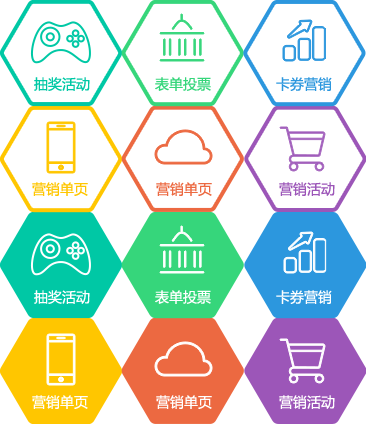
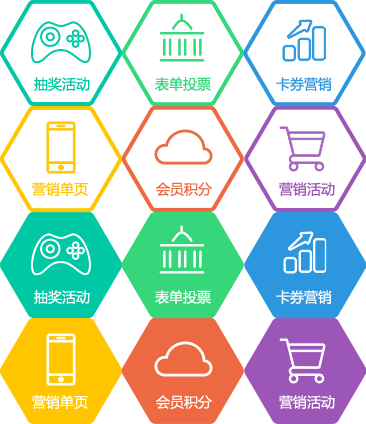
update danlunet

Changed region(s): [[0.4208, 0.9198, 0.571, 0.9811], [0.4208, 0.4292, 0.6011, 0.4599]]

diff --git a/src/documents/index.html b/src/documents/index.html
@@ -35,8 +35,7 @@ scripts: ["/scripts/jq-plug.js","/scripts/index.js"]
     <div class="solution-info" id="solution-info">
             <ul class="solu-nav">
                 <li class="title">营销模块</li>
-                <li class="tit" style="display:none;"></li>
-                <li class="tit"><a class="dot1" active-data="solu-game" href="javascript:void(0)"></a></li>
+                <li class="tit active"><a class="dot1" active-data="solu-game" href="javascript:void(0)"></a></li>
                 <li class="tit"><a active-data="solu-edu" href="javascript:void(0)" class="dot2"></a></li>
                 <li class="tit"><a active-data="solu-dsp" href="javascript:void(0)" class="dot3"></a></li>
                 <li class="tit"><a active-data="solu-ebs" href="javascript:void(0)" class="dot4"></a></li>
@@ -44,16 +43,15 @@ scripts: ["/scripts/jq-plug.js","/scripts/index.js"]
                 <li class="tit"><a active-data="solu-app" href="javascript:void(0)" class="dot6"></a></li>
             </ul>
             <div class="tab-content solu-content">
-                <div class="tab-pane">
-                    <h4>营销模块</h4>
-                    <p class="text" style="line-height:24px;font-size:16px;">为客户的需求提供合理地解决方案,为商家挖掘更多的客户需求，商家挖掘更多的客户需求多的客户需求多的客户需求。为商家挖掘更多的客户需求，商家挖掘更多的客户需求多的客户需求多的客户需求。为商家挖掘更多的客户需求，商家挖掘更多的客户需求多的客户需求多的客户需求。
+                <div class="tab-pane2">
+                    <h4 style="padding: 0px 0;text-align: center;font-size: 32px;font-weight:normal;">营销模块</h4>
+                    <p class="text" style="line-height:24px;font-size:16px;">为客户的需求提供合理地解决方案,为商家挖掘更多的客户需求，商家挖掘更多的客户需求多的客户需求多的客户需求。为商家挖掘更多的客户需求，商家挖掘更多的客户需求多的客户需求多的客户需求。的客户需求多的客户需求。
                     <br><br></p>
                 </div>
-                <div class="tab-pane" style="display:none;">
+                <div class="tab-pane">
                     <h4>抽奖活动</h4>
                     <p class="text">刮刮卡、大转盘、砸金蛋等互动小游戏设置简单，趣味互动 吸引用户参与 沉淀用户。
                     <br><br></p>
-                    <a class="btn-lottery bottn vt" href="#">查看详情</a>
                 </div>
                 <div class="tab-pane" style="display:none;">
                     <h4>表单投票</h4>
@@ -61,13 +59,11 @@ scripts: ["/scripts/jq-plug.js","/scripts/index.js"]
                                     报名：活动报名、课程报名、组团报名等报名活动<br />
                                     预付款：装修预付款、课程预付款等需要预付款的场景
                     <br><br></p>
-                    <a class="btn-lottery bottn vt" href="#">查看详情</a>
                 </div>
                 <div class="tab-pane" style="display:none;">
                     <h4>卡券营销</h4>
                     <p class="text">代金券：结合线下活动，可以代替现金使用的券，为您的客户提供最直接的福利<br />优惠券：自定义优惠券，优惠券发放，积分兑换优惠券。
                     <br><br></p>
-                    <a class="btn-lottery bottn vt" href="#">查看详情</a>
                 </div>
                 <div class="tab-pane" style="display:none;">
                     <h4>营销活动</h4>
@@ -75,21 +71,16 @@ scripts: ["/scripts/jq-plug.js","/scripts/index.js"]
                                     推广单页：专为营销活动设计的个性化推广单页<br />
                                     整合营销活动，轻松创建专题页面
                     <br><br></p>
-                    <a class="btn-lottery bottn vt" href="#">查看详情</a>
+                </div>
+                <div class="tab-pane" style="display:none;">
+                    <h4>会员积分</h4>
+                    <p class="text">购物积分/评价积分/预约积分/发放积分<br />积分兑换优惠券/积分抵扣购物/设置积分规则
+                    <br><br></p>
                 </div>
                 <div class="tab-pane" style="display:none;">
                     <h4>营销单页</h4>
                     <p class="text">为客户的需求提供合理地解决方案,为商家挖掘更多的客户需求，商家挖掘更多的客户需求多的客户需求多的客户需求。
                     <br><br></p>
-                    <a class="btn-lottery bottn vt" href="#">查看详情</a>
-                </div>
-                <div class="tab-pane" style="display:none;">
-                    <h4>表单投票</h4>
-                    <p class="text">预定：酒店预订、课程预定、旅游预订等需要提前预定的场景<br />
-                                    报名：活动报名、课程报名、组团报名等报名活动<br />
-                                    预付款：装修预付款、课程预付款等需要预付款的场景
-                    <br><br></p>
-                    <a class="btn-lottery bottn vt" href="#">查看详情</a>
                 </div>
             </div>
 
@@ -97,7 +88,7 @@ scripts: ["/scripts/jq-plug.js","/scripts/index.js"]
 </div>
 <div class="box3">
     <div class="box">
-        <div class="hd" style="color:#fff">客户转化</div>
+        <div class="hd" style="color:#fff;padding-bottom:10px;">客户转化</div>
         <div class="t_c mb20"><img src="../images/order.png" height="300px"></div>
         <div class="bd clearfix">
             <ul>

diff --git a/src/files/styles/wj-css.css b/src/files/styles/wj-css.css
@@ -20,7 +20,7 @@
 
 .wj-wel {color:#fff; line-height:30px;}
 .wj-wel a { color:#fff;}
-.hotline { position:absolute;right:0px; top:8px; color:#fff;}
+.hotline { position:absolute;right:0px; top:6px; color:#fff;}
 .hotline a { color:#fff;}
 
 .wrap { width:1200px; margin:0 auto;}
@@ -68,7 +68,7 @@
 .btn-lottery{height:40px;padding:0 20px;line-height:40px;margin-left:25px;border-radius:15px;-webkit-border-radius:15px;-moz-border-radius:15px;font-size:18px;display:inline-block;background-color:#fff;color:#72757c;border:1px #d8d8d8 solid;}
 .btn-lottery:hover{background-color:#0b7ce5;border:none;color:#fff;}
 .solution-info{height:auto!important;width: 1200px;margin: 0 auto;}
-.solution-info .solu-nav{width:443px;height:424px;margin:0px 10px 30px 50px;position:relative;display:inline-block;}
+.solution-info .solu-nav{width:400px;height:424px;margin:0px 10px 30px 50px;position:relative;display:inline-block;}
 .solution-info .solu-nav .title{position:absolute;left:130px;top:240px;font-size:20px;}
 .solution-info .dot1,.solution-info .dot2,.solution-info .dot3,.solution-info .dot4,.solution-info .dot5,.solution-info .dot6,.solution-info .dot-gray,.solution-info .dot-white1,.solution-info .dot-white2{background:url("../images/index-solu.png");background-position:0px 0px;width:122px;height:106px;display:block;position:absolute;top:140px;left:8px;z-index:1;}.solution-info .dot1:hover,.solution-info .dot2:hover,.solution-info .dot3:hover,.solution-info .dot4:hover,.solution-info .dot5:hover,.solution-info .dot6:hover,.solution-info .dot-gray:hover,.solution-info .dot-white1:hover,.solution-info .dot-white2:hover{background-position:0px -212px;}
 .solution-info .dot2{background-position:-122px 0px;top:78px;left:107px;}.solution-info .dot2:hover{background-position:-122px -212px;}
@@ -82,10 +82,13 @@
 .solution-info .active .dot4{background-position:-244px -318px;}
 .solution-info .active .dot5{background-position:-122px -318px;}
 .solution-info .active .dot6{background-position:0px -318px;}
-.solu-content{display:inline-block;width:467px;padding-left:30px;padding-top:70px;margin-left:-5px;vertical-align:top;}.solu-content h4{font-size:28px;height:auto;color:#32365d;line-height:38px;margin:0px 0px 20px 0px;}
+.solu-content{display:inline-block;width:650px;padding-left:30px;padding-top:50px;margin-left:-5px;vertical-align:top;}
+.solu-content h4{font-size:18px;height:auto;color:#32365d;line-height:38px;margin:0px 0px 10px 0px;}
 .solu-content .text{color:#666666;text-indent:inherit;}
 .solu-content .btn-lottery{border-radius:5px;-webkit-border-radius:5px;-moz-border-radius:5px;margin-left:0px;font-size:14px;height:36px;line-height:36px;}
 .solu-content .btn-lottery:hover{padding:1px 20px;}
+.tab-pane {padding:20px;border: 1px #ddd solid;border-radius: 10px;background:#fff; }
+
 
 .box3 {background:#007acf; }
 .box3 .hd {padding: 50px 0;text-align: center;font-size: 32px;}
